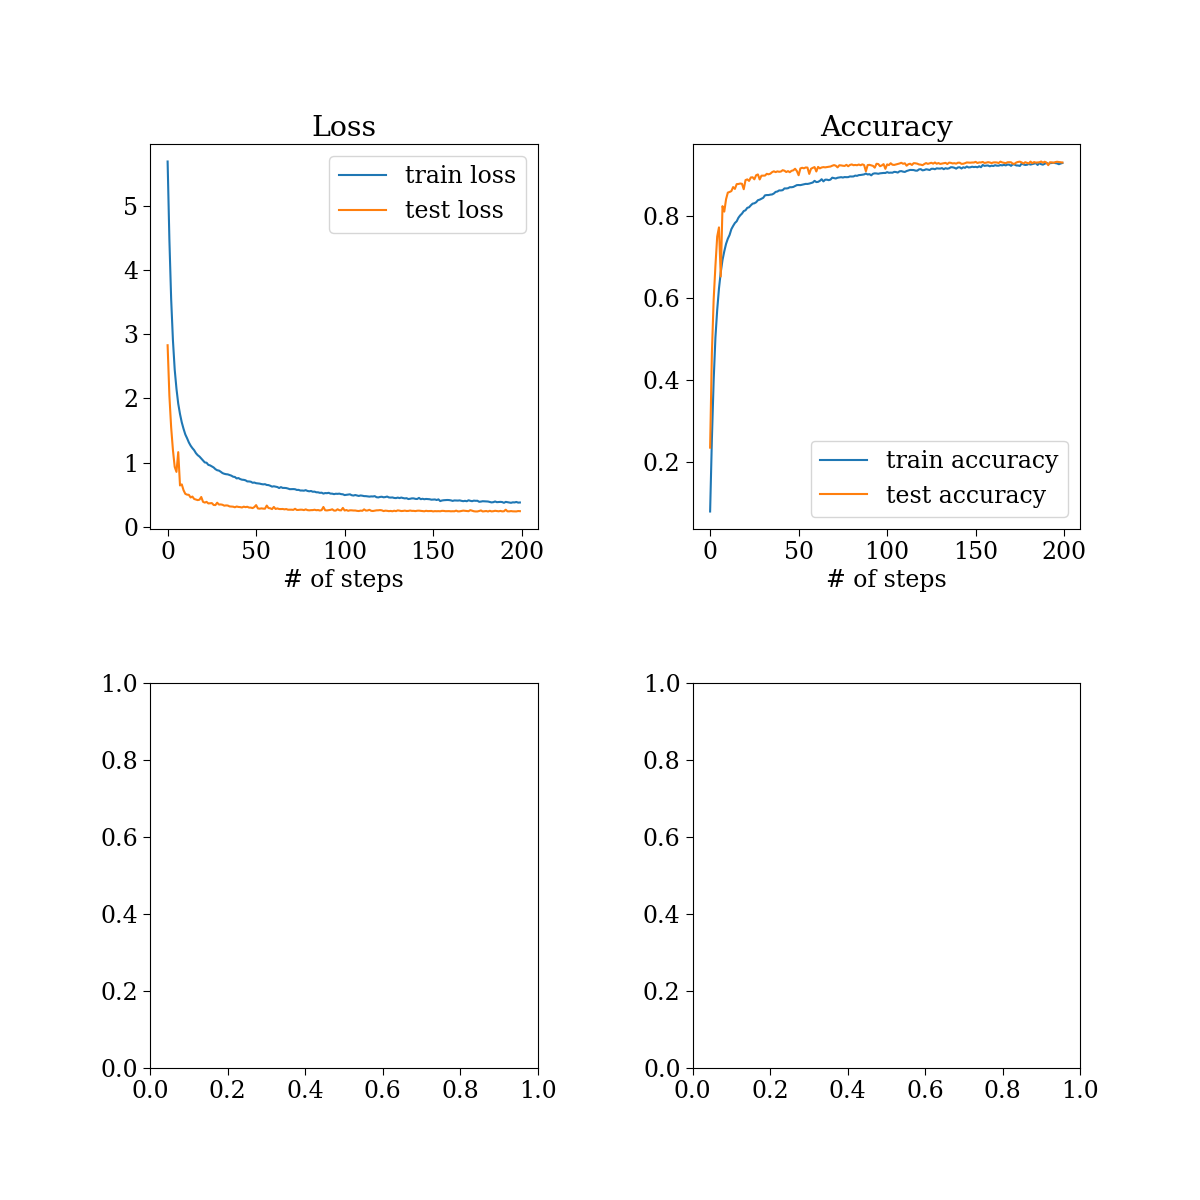
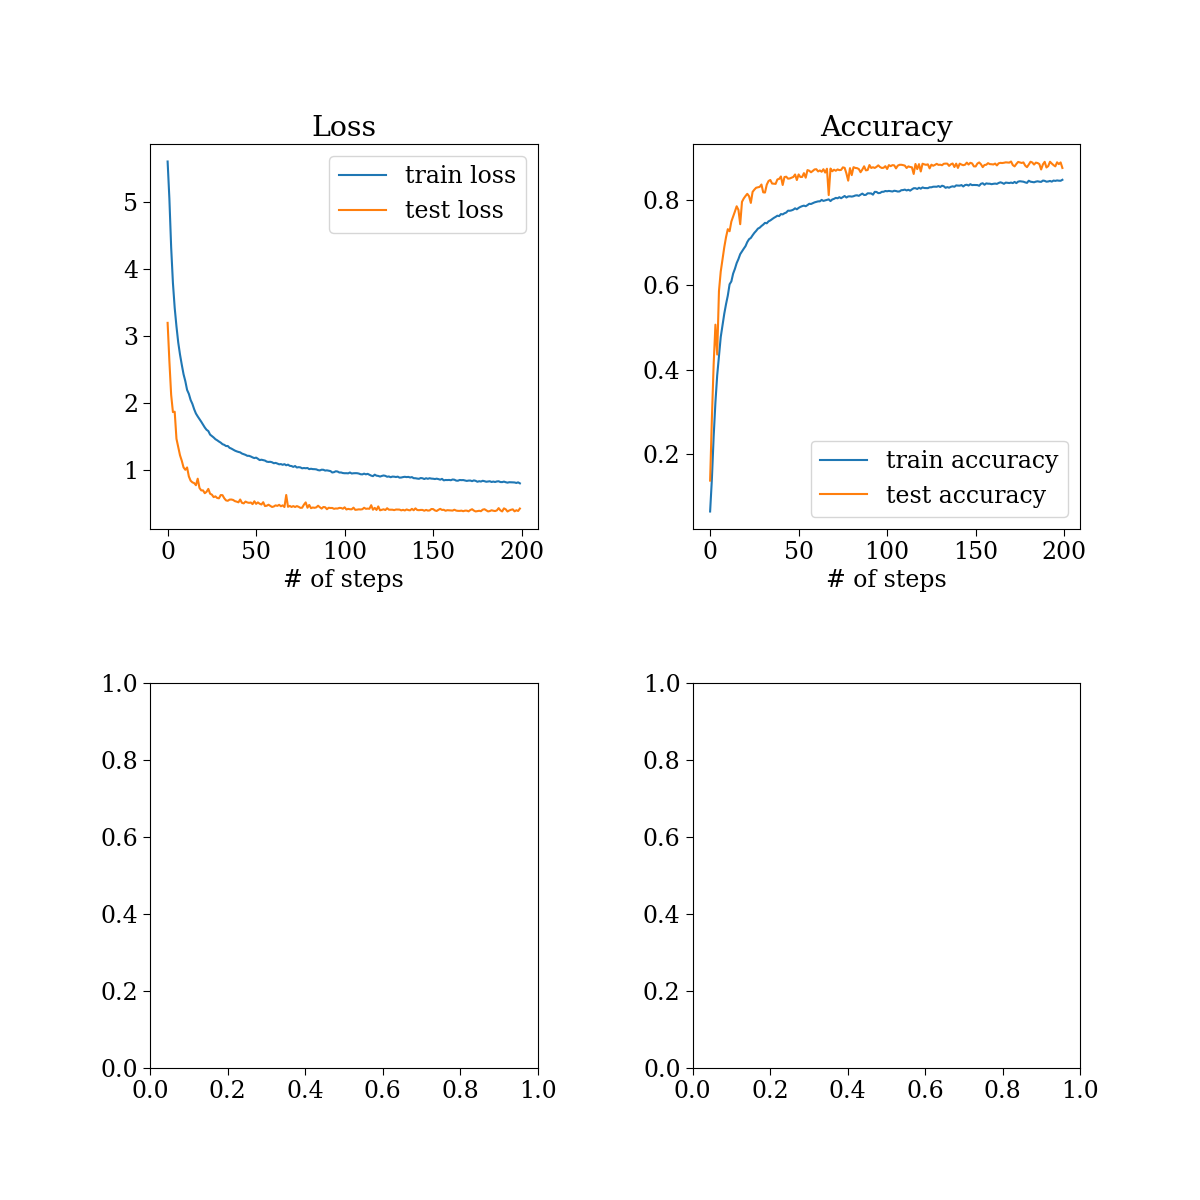
sdf

Changed region(s): [[0.5242, 0.1233, 0.8942, 0.4008], [0.0925, 0.185, 0.4317, 0.4317], [0.0925, 0.1542, 0.1233, 0.185]]

diff --git a/pkugoodspeed/src/cnn.py b/pkugoodspeed/src/cnn.py
@@ -43,9 +43,9 @@ from keras.utils import np_utils, plot_model
 hyper_pwr = 0.15
 hyper_train_ratio = 0.6
 hypter_n = 25
-hypter_m = 16
-hypter_NR = 256
-hypter_NC = 128
+hypter_m = 5
+hypter_NR = 208
+hypter_NC = 64
 hypter_delta = 1.
 hyper_dropout1 = 0.1
 hyper_dropout2 = 0.1
@@ -228,7 +228,7 @@ if __name__ == '__main__':
     test_loss = res.history['val_loss']
     
     statics = test_accu[150:]
-    filename = "../cnn2_output/pretrain/" + str(hyper_n) + "." + str(hyper_m) + ".txt"
+    filename = "../cnn2_output/pretrain/" + str(hypter_n) + "." + str(hypter_m) + ".txt"
     f = open(filename,'w')
     for acc in statics:
         f.write(str(acc) + ' ')
